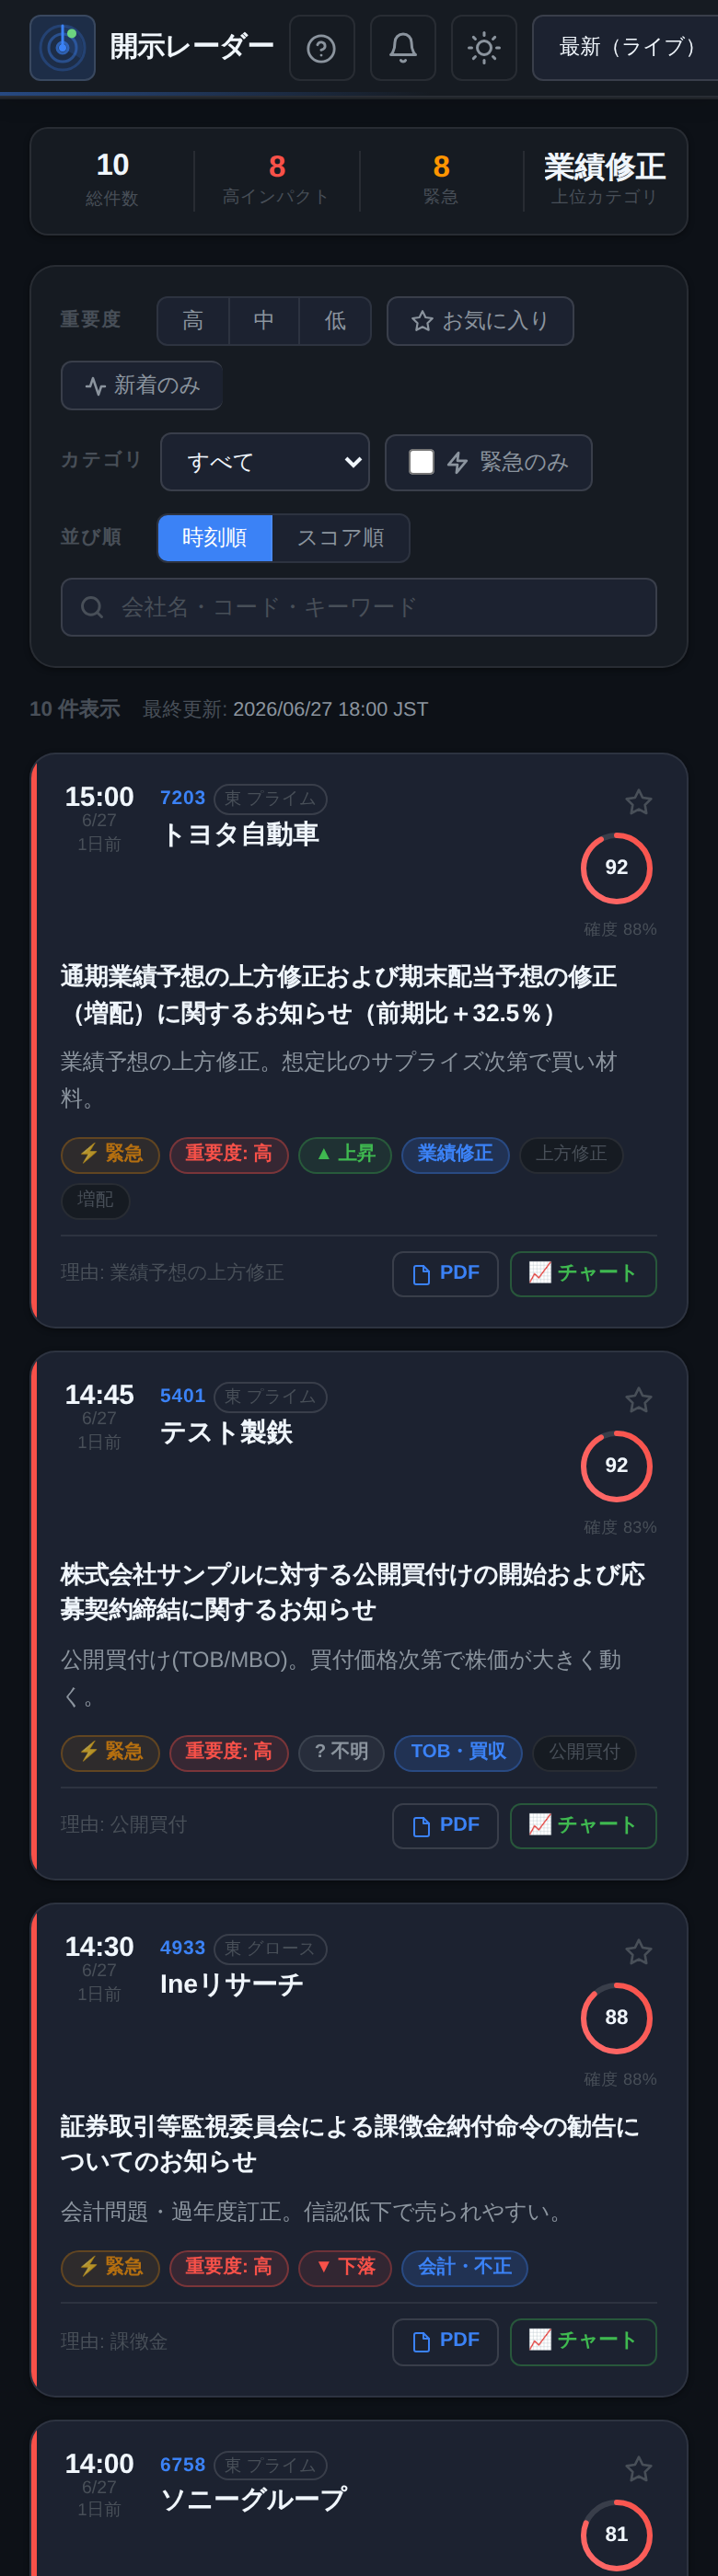
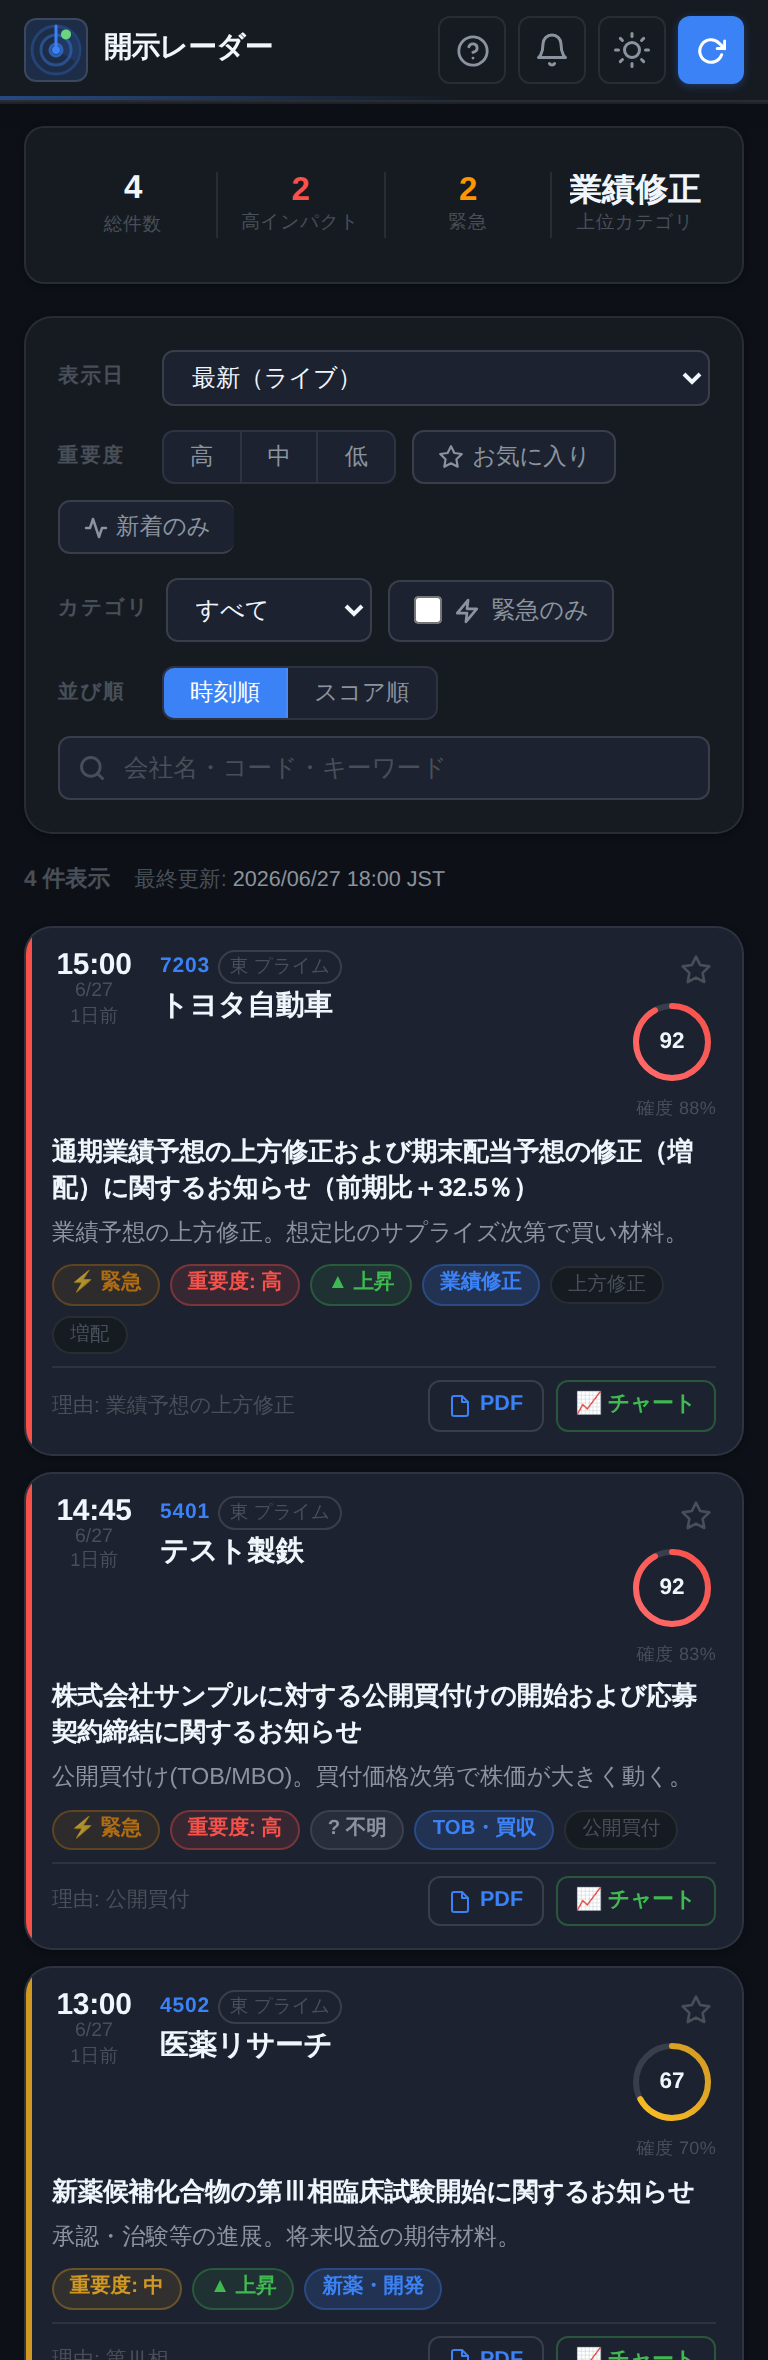
UI: スマホでの見切れ・余白を解消しカードをコンパクト化
- アプリバーが狭幅(360px)で横はみ出し→更新ボタン等が見切れていた問題を修正:
  日付セレクタをフィルタパネル(表示日)へ移動し、アプリバーを縮小(アイコン縮小・
  更新はアイコンのみ・余白圧縮)。320pxでも横スクロールなし。
- カードをコンパクト化(パディング/行間/セクション間隔を圧縮)。高さ約313→約265px。
  情報量(時刻/相対時刻/コード/会社/スコア/確度/要約/全バッジ/タグ/理由/PDF/チャート)は維持。
- スクリーンショット更新。ライト/ダーク・モバイル/デスクトップ2カラムで検証。

Claude-Session: https://claude.ai/code/session_01Xpwc2CnfsuYNLuDAikaBMj

Changed region(s): [[0.0, 0.0, 0.9688, 1.0], [0.6562, 0.0, 0.75, 0.0309], [0.5938, 0.0, 0.625, 0.0309]]

diff --git a/docs/style.css b/docs/style.css
@@ -915,7 +915,7 @@ body {
   background: var(--bg-card);
   border: 1px solid var(--border);
   border-radius: var(--r-lg);
-  padding: var(--space-4);
+  padding: 11px 13px;
   box-shadow: var(--shadow-xs);
   transition:
     box-shadow var(--t-base) var(--ease),
@@ -926,7 +926,7 @@ body {
   overflow: hidden;
   display: flex;
   flex-direction: column;
-  gap: var(--space-2);
+  gap: 5px;
   /* Stagger animation */
   animation: card-enter var(--t-slow) var(--ease) both;
   animation-delay: calc(var(--card-index, 0) * 35ms);
@@ -1168,18 +1168,18 @@ body {
 
 /* ===== CARD — TITLE ===== */
 .card-title {
-  font-size: 0.88rem;
+  font-size: 0.86rem;
   font-weight: 600;
   color: var(--text-primary);
-  line-height: 1.5;
+  line-height: 1.4;
   letter-spacing: -0.01em;
 }
 
 /* ===== CARD — SUMMARY ===== */
 .card-summary {
-  font-size: 0.8rem;
+  font-size: 0.78rem;
   color: var(--text-secondary);
-  line-height: 1.65;
+  line-height: 1.5;
 }
 
 /* ===== CARD — BADGES ROW ===== */
@@ -1255,8 +1255,8 @@ body {
   gap: var(--space-2);
   flex-wrap: wrap;
   border-top: 1px solid var(--border);
-  padding-top: var(--space-2);
-  margin-top: auto;
+  padding-top: 6px;
+  margin-top: 1px;
 }
 
 .card-reasons {
@@ -1765,24 +1765,38 @@ body {
   line-height: 1.6;
 }
 
+/* date-selector を フィルタパネル内で他の select と揃える(appbar用の固定幅/高さを解除) */
+.filter-row .date-selector {
+  max-width: 240px;
+  width: auto;
+  height: auto;
+}
+
 /* ===== RESPONSIVE ===== */
 @media (max-width: 560px) {
-  .appbar-inner { height: 52px; gap: var(--space-2); }
+  .appbar-inner { height: 50px; gap: var(--space-2); padding: 0 var(--space-3); }
   .brand-sub    { display: none; }
   .live-indicator { display: none; }
+  .brand-logo   { width: 32px; height: 32px; }
+  .brand-name   { font-size: 0.95rem; }
+
+  .appbar-actions { gap: 6px; }
+  .icon-btn     { width: 34px; height: 34px; }
 
   .btn-refresh span { display: none; }
-  .btn-refresh { padding: 0 10px; }
+  .btn-refresh { padding: 0 9px; height: 34px; }
 
-  .date-selector { max-width: 130px; font-size: 0.75rem; }
-
-  .summary-strip { border-radius: var(--r-md); }
+  .summary-strip { border-radius: var(--r-md); padding: 10px var(--space-3); }
   .summary-value { font-size: 1.1rem; }
 
   .filter-row { flex-wrap: wrap; }
   .filter-label { min-width: 44px; }
+  .filter-row .date-selector { max-width: 100%; flex: 1; }
 
   .watchlist-toggle-btn { margin-left: 0; }
+
+  .main-container { padding: var(--space-3); }
+  .card-list { gap: 8px; }
 
   .kaiji-toast { bottom: 16px; }
 }

diff --git a/docs/index.html b/docs/index.html
@@ -97,12 +97,6 @@
           </svg>
         </button>
 
-        <!-- Date selector -->
-        <select class="date-selector" id="date-selector"
-                aria-label="表示する日付を選択" title="閲覧する日付を選択">
-          <option value="live">最新（ライブ）</option>
-        </select>
-
         <!-- Refresh button -->
         <button class="btn-refresh" id="btn-refresh" type="button" aria-label="データを手動更新">
           <svg width="15" height="15" viewBox="0 0 24 24" fill="none" stroke="currentColor" stroke-width="2.5" stroke-linecap="round" stroke-linejoin="round" aria-hidden="true">
@@ -159,6 +153,15 @@
 
     <!-- Filter panel -->
     <section class="filter-panel" aria-label="フィルタ">
+
+      <!-- Row 0: Date selector -->
+      <div class="filter-row">
+        <span class="filter-label">表示日</span>
+        <select class="filter-select date-selector" id="date-selector"
+                aria-label="表示する日付を選択" title="閲覧する日付を選択">
+          <option value="live">最新（ライブ）</option>
+        </select>
+      </div>
 
       <!-- Row 1: Impact + Watchlist + New-only -->
       <div class="filter-row">